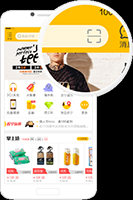
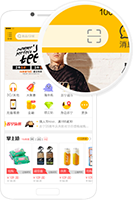
扫码登录

diff --git a/app/page/sign_in.html b/app/page/sign_in.html
@@ -31,8 +31,8 @@
                         </a>
                     </div>
                     <div class="middle">
-                        <div class=""><img src="" alt=""></div>
-                        <div class=""><img src="" alt=""></div>
+                        <div class="left_mask"><img src="../images/sign_in/1.png" alt=""></div>
+                        <div class="right_mask"><img src="../images/sign_in/2.png" alt=""></div>
                     </div>
                 </div>
                

diff --git a/app/css/sign_in.css b/app/css/sign_in.css
@@ -98,5 +98,25 @@ a{
 }
 .main .form-box .right i{
     display:none;
-
+}
+.main .form-box .middle{
+    margin-top:50px;
+    height: 160px;
+    width:360px;
+    position: relative;
+}
+.main .form-box .middle .left_mask{
+    height: 141px;
+    width:141px; 
+    overflow: hidden;
+    position: absolute;
+    left:50%;
+    margin-left:-70px;
+}
+.main .form-box .middle .right_mask{
+    height: 160px;
+    width:160px;
+    position:absolute;
+    right:0px;
+    top:-30px;
 }
